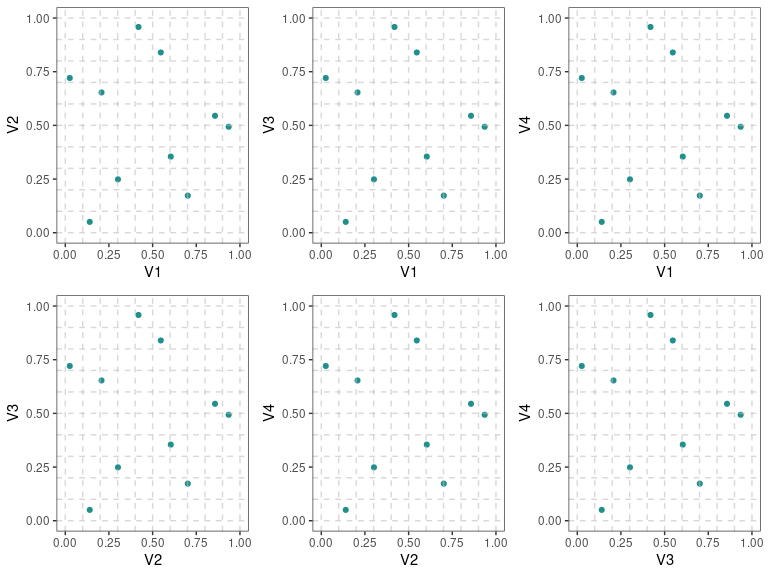
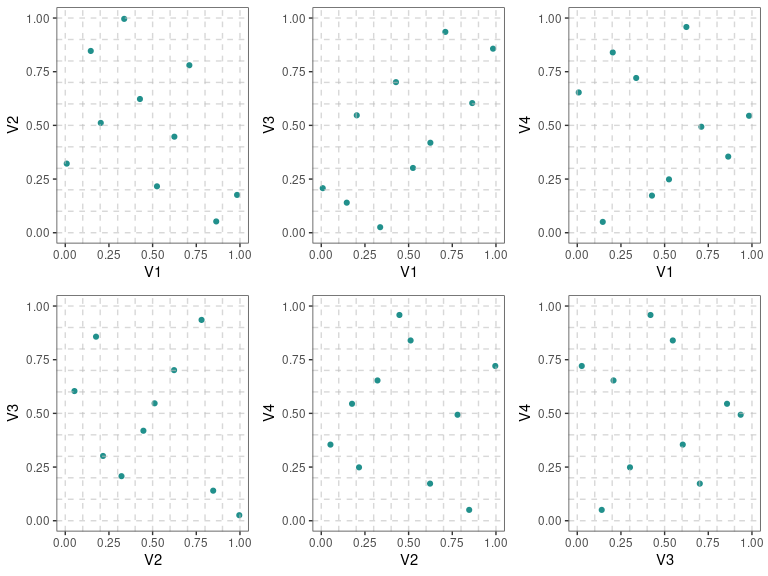
fixed bug with `twoD_projections()`

diff --git a/docs/news/index.html b/docs/news/index.html
@@ -17,7 +17,7 @@
       </button>
       <span class="navbar-brand">
         <a class="navbar-link" href="../index.html">ggDoE</a>
-        <span class="version label label-default" data-toggle="tooltip" data-placement="bottom" title="">0.7.3</span>
+        <span class="version label label-default" data-toggle="tooltip" data-placement="bottom" title="">0.7.4</span>
       </span>
     </div>
 
@@ -47,6 +47,11 @@
       <small>Source: <a href="https://github.com/toledo60/ggDoE/blob/HEAD/NEWS.md" class="external-link"><code>NEWS.md</code></a></small>
     </div>
 
+    <div class="section level2">
+<h2 class="page-header" data-toc-text="0.7.4" id="ggdoe-074">ggDoE 0.7.4<a class="anchor" aria-label="anchor" href="#ggdoe-074"></a></h2>
+<p>BUX FIXES</p>
+<ul><li>Fixed bug in <code><a href="../reference/twoD_projections.html">twoD_projections()</a></code> that would output the same plot for every plot in the grid</li>
+</ul><hr></div>
     <div class="section level2">
 <h2 class="page-header" data-toc-text="0.7.3" id="ggdoe-073">ggDoE 0.7.3<a class="anchor" aria-label="anchor" href="#ggdoe-073"></a></h2>
 <p>NEW FUNCTIONS</p>

diff --git a/docs/authors.html b/docs/authors.html
@@ -17,7 +17,7 @@
       </button>
       <span class="navbar-brand">
         <a class="navbar-link" href="index.html">ggDoE</a>
-        <span class="version label label-default" data-toggle="tooltip" data-placement="bottom" title="">0.7.3</span>
+        <span class="version label label-default" data-toggle="tooltip" data-placement="bottom" title="">0.7.4</span>
       </span>
     </div>
 
@@ -63,13 +63,13 @@
 
     <p>Toledo Luna J (2022).
 <em>ggDoE: Modern graphs for Design of Experiments with ggplot2</em>.
-R package version 0.7.3, <a href="https://ggdoe.netlify.app" class="external-link">https://ggdoe.netlify.app</a>. 
+R package version 0.7.4, <a href="https://ggdoe.netlify.app" class="external-link">https://ggdoe.netlify.app</a>. 
 </p>
     <pre>@Manual{,
   title = {ggDoE: Modern graphs for Design of Experiments with ggplot2},
   author = {Jose {Toledo Luna}},
   year = {2022},
-  note = {R package version 0.7.3},
+  note = {R package version 0.7.4},
   url = {https://ggdoe.netlify.app},
 }</pre>
 

diff --git a/docs/reference/adapted_epitaxial.html b/docs/reference/adapted_epitaxial.html
@@ -17,7 +17,7 @@
       </button>
       <span class="navbar-brand">
         <a class="navbar-link" href="../index.html">ggDoE</a>
-        <span class="version label label-default" data-toggle="tooltip" data-placement="bottom" title="">0.7.3</span>
+        <span class="version label label-default" data-toggle="tooltip" data-placement="bottom" title="">0.7.4</span>
       </span>
     </div>
 

diff --git a/docs/reference/alias_matrix.html b/docs/reference/alias_matrix.html
@@ -17,7 +17,7 @@
       </button>
       <span class="navbar-brand">
         <a class="navbar-link" href="../index.html">ggDoE</a>
-        <span class="version label label-default" data-toggle="tooltip" data-placement="bottom" title="">0.7.3</span>
+        <span class="version label label-default" data-toggle="tooltip" data-placement="bottom" title="">0.7.4</span>
       </span>
     </div>
 

diff --git a/docs/reference/aliased_design.html b/docs/reference/aliased_design.html
@@ -17,7 +17,7 @@
       </button>
       <span class="navbar-brand">
         <a class="navbar-link" href="../index.html">ggDoE</a>
-        <span class="version label label-default" data-toggle="tooltip" data-placement="bottom" title="">0.7.3</span>
+        <span class="version label label-default" data-toggle="tooltip" data-placement="bottom" title="">0.7.4</span>
       </span>
     </div>
 

diff --git a/docs/reference/boxcox_transform.html b/docs/reference/boxcox_transform.html
@@ -17,7 +17,7 @@
       </button>
       <span class="navbar-brand">
         <a class="navbar-link" href="../index.html">ggDoE</a>
-        <span class="version label label-default" data-toggle="tooltip" data-placement="bottom" title="">0.7.3</span>
+        <span class="version label label-default" data-toggle="tooltip" data-placement="bottom" title="">0.7.4</span>
       </span>
     </div>
 

diff --git a/docs/reference/diagnostic_plots.html b/docs/reference/diagnostic_plots.html
@@ -17,7 +17,7 @@
       </button>
       <span class="navbar-brand">
         <a class="navbar-link" href="../index.html">ggDoE</a>
-        <span class="version label label-default" data-toggle="tooltip" data-placement="bottom" title="">0.7.3</span>
+        <span class="version label label-default" data-toggle="tooltip" data-placement="bottom" title="">0.7.4</span>
       </span>
     </div>
 

diff --git a/docs/reference/gg_boxplots.html b/docs/reference/gg_boxplots.html
@@ -17,7 +17,7 @@
       </button>
       <span class="navbar-brand">
         <a class="navbar-link" href="../index.html">ggDoE</a>
-        <span class="version label label-default" data-toggle="tooltip" data-placement="bottom" title="">0.7.3</span>
+        <span class="version label label-default" data-toggle="tooltip" data-placement="bottom" title="">0.7.4</span>
       </span>
     </div>
 

diff --git a/docs/reference/gg_rsm.html b/docs/reference/gg_rsm.html
@@ -17,7 +17,7 @@
       </button>
       <span class="navbar-brand">
         <a class="navbar-link" href="../index.html">ggDoE</a>
-        <span class="version label label-default" data-toggle="tooltip" data-placement="bottom" title="">0.7.3</span>
+        <span class="version label label-default" data-toggle="tooltip" data-placement="bottom" title="">0.7.4</span>
       </span>
     </div>
 

diff --git a/docs/reference/half_normal.html b/docs/reference/half_normal.html
@@ -17,7 +17,7 @@
       </button>
       <span class="navbar-brand">
         <a class="navbar-link" href="../index.html">ggDoE</a>
-        <span class="version label label-default" data-toggle="tooltip" data-placement="bottom" title="">0.7.3</span>
+        <span class="version label label-default" data-toggle="tooltip" data-placement="bottom" title="">0.7.4</span>
       </span>
     </div>
 

diff --git a/docs/reference/index.html b/docs/reference/index.html
@@ -17,7 +17,7 @@
       </button>
       <span class="navbar-brand">
         <a class="navbar-link" href="../index.html">ggDoE</a>
-        <span class="version label label-default" data-toggle="tooltip" data-placement="bottom" title="">0.7.3</span>
+        <span class="version label label-default" data-toggle="tooltip" data-placement="bottom" title="">0.7.4</span>
       </span>
     </div>
 

diff --git a/docs/reference/interaction_effects.html b/docs/reference/interaction_effects.html
@@ -17,7 +17,7 @@
       </button>
       <span class="navbar-brand">
         <a class="navbar-link" href="../index.html">ggDoE</a>
-        <span class="version label label-default" data-toggle="tooltip" data-placement="bottom" title="">0.7.3</span>
+        <span class="version label label-default" data-toggle="tooltip" data-placement="bottom" title="">0.7.4</span>
       </span>
     </div>
 
